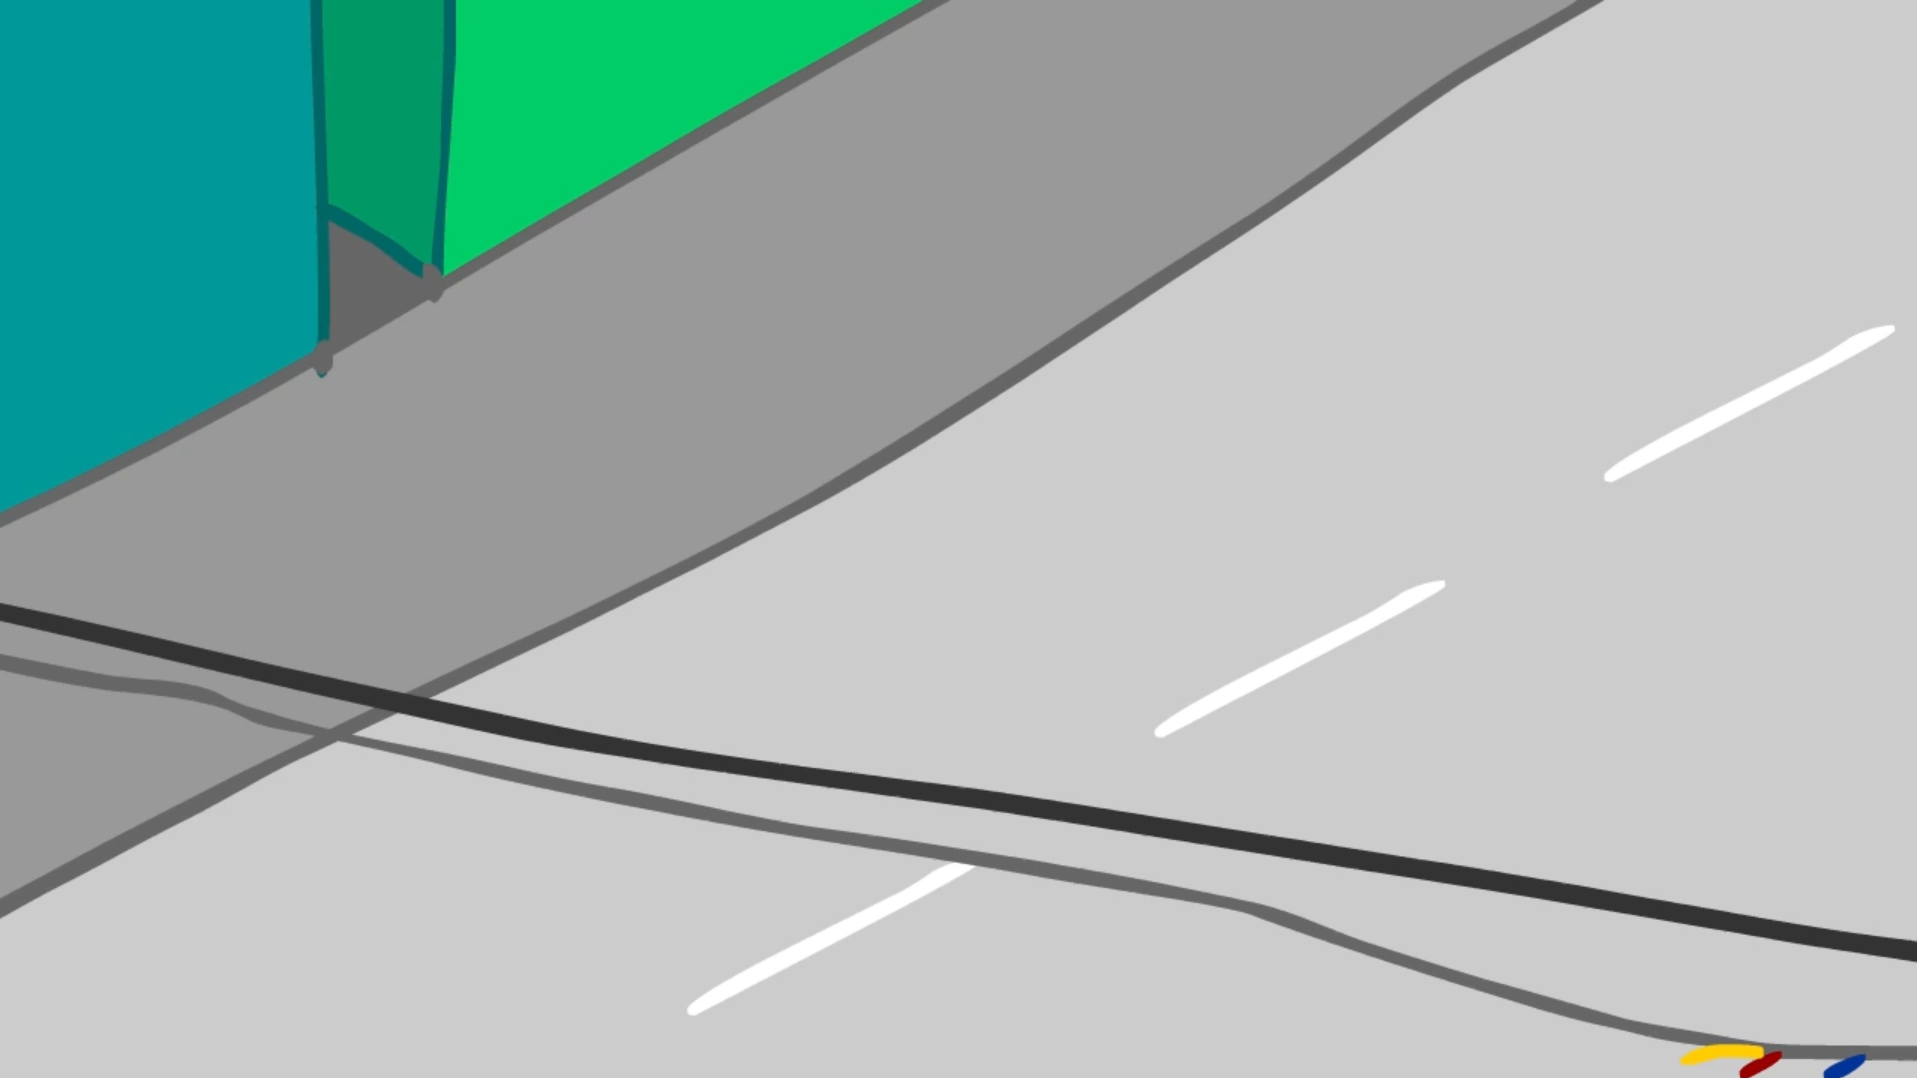
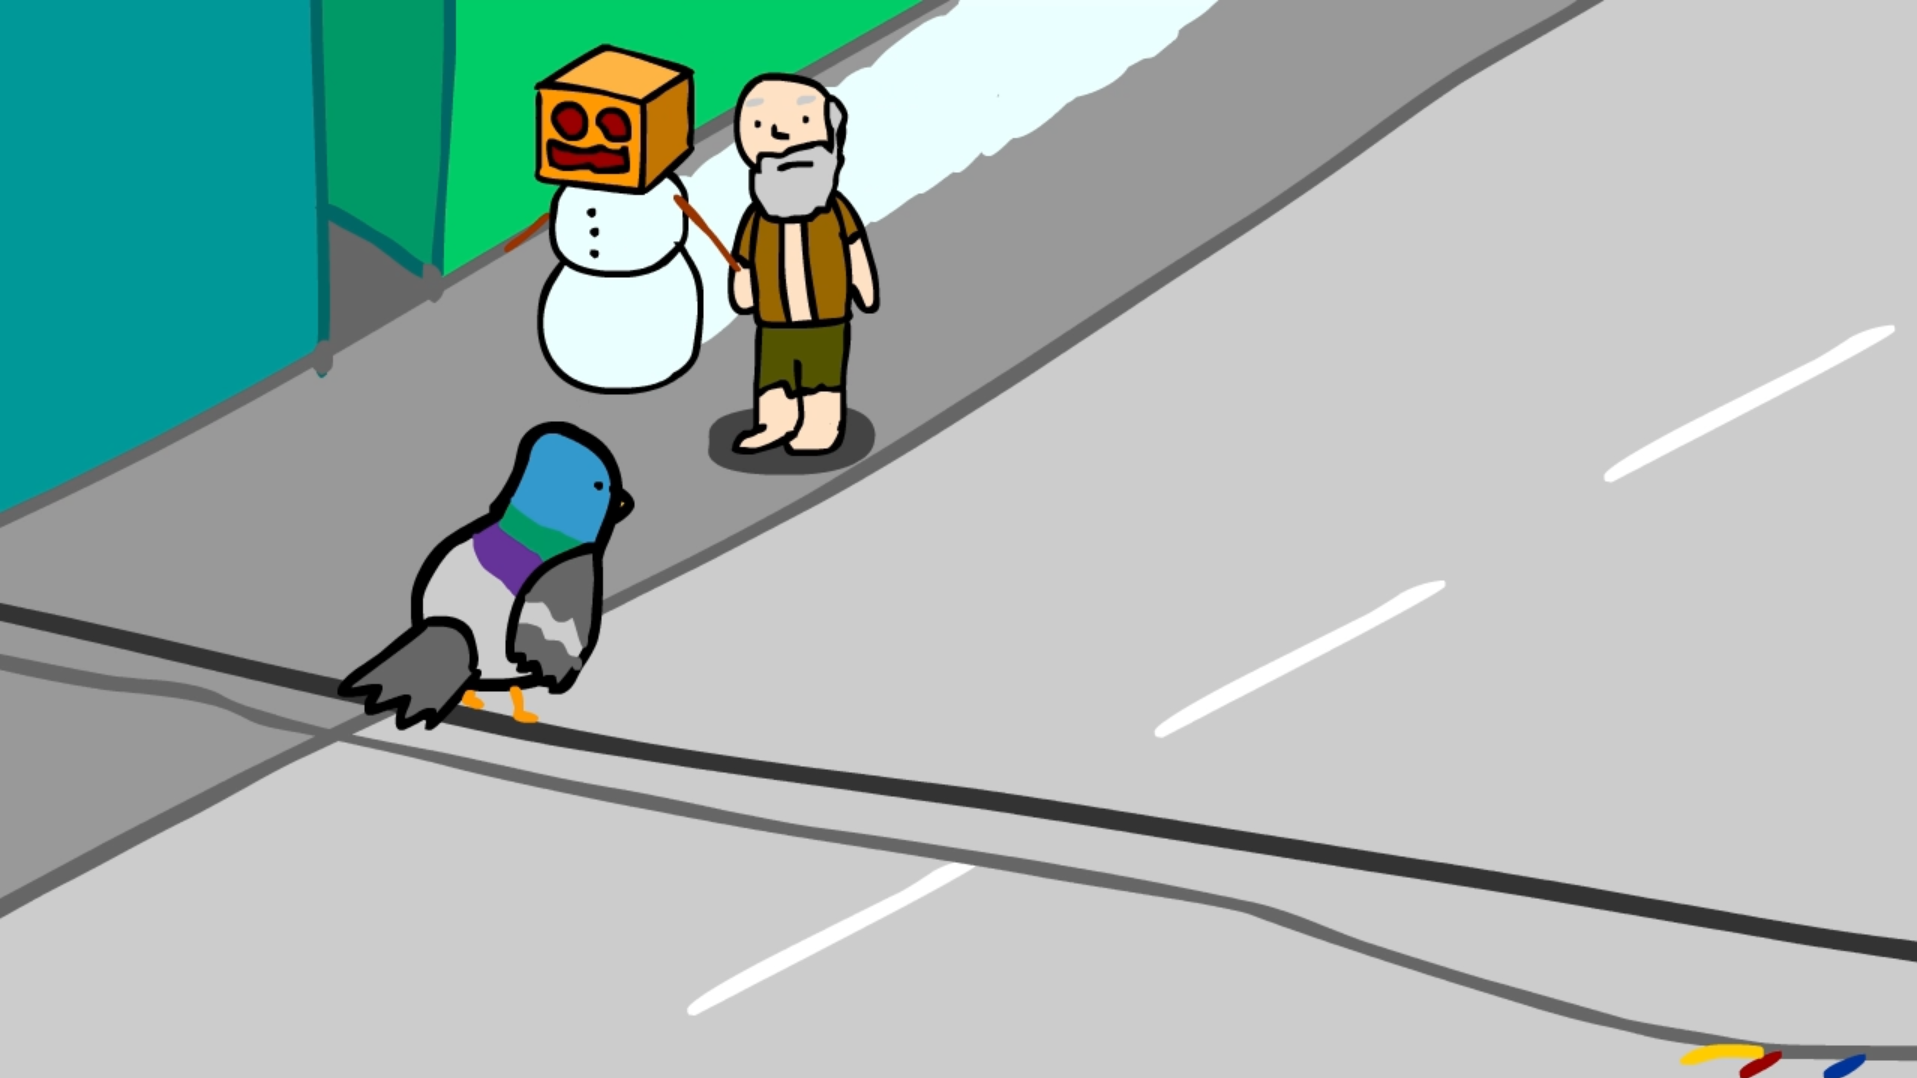
Funcionamiento de pantallas carga cambiado

Changed region(s): [[0.1539, 0.0, 0.6463, 0.6735]]

diff --git a/js/main.js b/js/main.js
@@ -37,6 +37,7 @@
 
   const newGame = () => ({
     honor: 0,
+    piedrazoRecibido: false,
     moscaAliada: false,
     gatoAliado: false,
     pajaritosAliados: false,
@@ -157,12 +158,14 @@ function renderScene() {
   const scene = currentScene();
   let video = `escena${scene.numero}.mp4`;
 
-  // Nodo 3: variante según el Honor acumulado.
-  if (scene.numero === 3) {
-    video = state.honor <= -2
-      ? 'escena3-honor-bajo.mp4'
-      : 'escena3-honor-alto.mp4';
-  }
+// Nodo 3: registrar si la piedra golpeó a la paloma.
+if (scene.numero === 3) {
+  state.piedrazoRecibido = state.honor <= -2;
+
+  video = state.piedrazoRecibido
+    ? 'escena3-honor-bajo.mp4'
+    : 'escena3-honor-alto.mp4';
+}
 
   // Nodo 6: duración según los aliados.
   if (scene.numero === 6) {
@@ -270,7 +273,7 @@ function renderScene() {
 
 
   function renderLoading() {
-    const nombreImagen = `${honorIconState(state.honor)}-${alliesKey()}.png`;
+   const nombreImagen = `${state.piedrazoRecibido ? 'bad' : 'neutral'}-${alliesKey()}.png`;
     const rutaImagen = `${data.loading.carpeta}/${nombreImagen}`;
 
     return screen('loading-board', `
